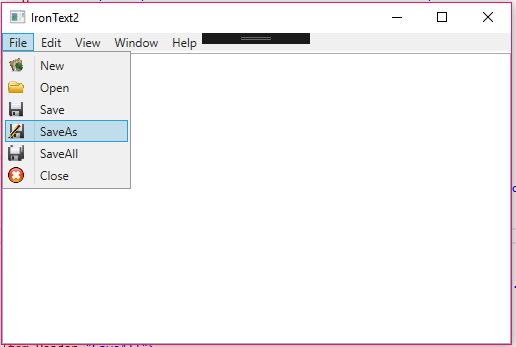
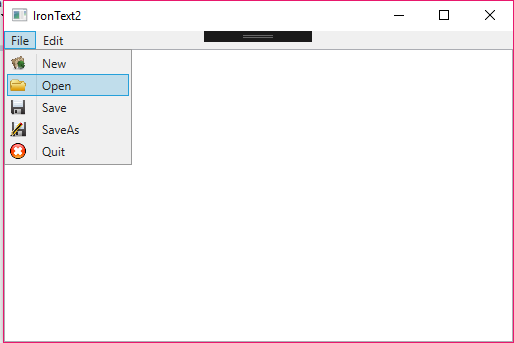
Adding more file operations and events

Changed region(s): [[0.0, 0.0, 1.0, 1.0]]

diff --git a/IronText2/Views/MenuView.xaml b/IronText2/Views/MenuView.xaml
@@ -16,7 +16,7 @@
             </MenuItem.Icon>
             </MenuItem>
 
-            <MenuItem Header="_Open">
+            <MenuItem Header="_Open" Command="{Binding FileOpenCommand}">
                 <MenuItem.Icon>
                     <Image Source="/icons/Avosoft-Warm-Toolbar-Folder-open.ico" />
                 </MenuItem.Icon>

diff --git a/IronText2/Views/TextContentView.xaml.cs b/IronText2/Views/TextContentView.xaml.cs
@@ -14,6 +14,7 @@ using System.Windows.Media.Imaging;
 using System.Windows.Navigation;
 using System.Windows.Shapes;
 using IronText2.Events;
+using IronText2.Models;
 using Microsoft.Win32;
 using Prism.Events;
 
@@ -25,30 +26,68 @@ namespace IronText2.Views
     public partial class TextContentView : UserControl
     {
         private readonly IEventAggregator _eventAggregator;
+        private readonly TextContentModel _model;
 
-        public TextContentView(IEventAggregator eventAggregator)
+
+        public TextContentView(IEventAggregator eventAggregator, TextContentModel model)
         {
             _eventAggregator = eventAggregator;
+            _model = model;
+
             InitializeComponent();
             _eventAggregator.GetEvent<SelectAllTextEvent>().Subscribe(SelectAllText);
             _eventAggregator.GetEvent<CutTextEvent>().Subscribe(CutText);
             _eventAggregator.GetEvent<CopyTextEvent>().Subscribe(CopyText);
             _eventAggregator.GetEvent<PasteTextEvent>().Subscribe(PasteText);
             _eventAggregator.GetEvent<FileSaveEvent>().Subscribe(SaveText);
-
+            _eventAggregator.GetEvent<FileSaveAsEvent>().Subscribe(SaveTextAs);
+            _eventAggregator.GetEvent<FileOpenEvent>().Subscribe(FileOpen);
+            
         }
+
+        private void FileOpen()
+        {
+            var openFileDialog = new OpenFileDialog
+            {
+                Filter = "Text files (*.txt)|*.txt|All files (*.*)|*.*",
+                InitialDirectory = Environment.GetFolderPath(Environment.SpecialFolder.MyDocuments)
+            };
+            if (openFileDialog.ShowDialog() == true)
+            {
+                Text.Text = File.ReadAllText(openFileDialog.FileName);
+                _model.FileName = openFileDialog.FileName;
+            }
+        }
+
 
         private void SaveText()
         {
-            SaveFileDialog saveFileDialog = new SaveFileDialog();
-            saveFileDialog.Filter = "Text file (*.txt)|*.txt|C# file (*.cs)|*.cs|all Files (*.*)|*.*";
-            saveFileDialog.InitialDirectory = Environment.GetFolderPath(Environment.SpecialFolder.MyDocuments);
-            if (saveFileDialog.ShowDialog() == true)
-                File.WriteAllText(saveFileDialog.FileName, Text.Text);
+            if (!string.IsNullOrEmpty(_model.FileName))
+            {
+                File.WriteAllText(_model.FileName, Text.Text);
+            }
+            else
+            {
+                SaveTextAs();
+            }
+
+           
         }
 
 
-        private void PasteText()
+        private void SaveTextAs()
+        {
+            SaveFileDialog saveFileDialog = new SaveFileDialog
+            {
+                Filter = "Text file (*.txt)|*.txt|C# file (*.cs)|*.cs|all Files (*.*)|*.*",
+                InitialDirectory = Environment.GetFolderPath(Environment.SpecialFolder.MyDocuments)
+            };
+            if (saveFileDialog.ShowDialog() == true)
+                File.WriteAllText(saveFileDialog.FileName, Text.Text);
+            _model.FileName = saveFileDialog.FileName;
+        }
+
+    private void PasteText()
         {
            Text.Paste();
         }

diff --git a/IronText2/ViewModels/MenuViewModel.cs b/IronText2/ViewModels/MenuViewModel.cs
@@ -22,6 +22,7 @@ namespace IronText2.ViewModels
         private bool _isTextSelected=true;
         private bool _isClipboardPopulated=true;
         private bool _isTextPopulated=true;
+        private bool _canOpen;
 
 
         public DelegateCommand FileNewCommand { get; private set; }
@@ -33,6 +34,7 @@ namespace IronText2.ViewModels
         public DelegateCommand EditCutCommand { get; private set; }
         public DelegateCommand EditPasteCommand { get; private set; }
         public DelegateCommand EditSelectAllCommand { get; private set; }
+        public DelegateCommand FileOpenCommand { get; private set; }
 
         public MenuViewModel(MenuModel model, IEventAggregator eventAggregator)
         {
@@ -43,6 +45,7 @@ namespace IronText2.ViewModels
             CloseCommand = new DelegateCommand(CloseExecute, CanCloseExecute).ObservesProperty(() => CanClose);
             FileSaveCommand = new DelegateCommand(SaveExecute, CanSaveExecute).ObservesProperty(() => CanSave);
             FileSaveAsCommand = new DelegateCommand(SaveAsExecute, CanSaveAsExecute).ObservesProperty(() => CanSave);
+            FileOpenCommand = new DelegateCommand(OpenFileExecute, CanOpenFileExecute).ObservesProperty(() => CanOpen);
 
 
             EditCopyCommand =new DelegateCommand(EditCopyExecute, CanEditCopyExecute).ObservesProperty(() => IsTextSelected);
@@ -50,6 +53,30 @@ namespace IronText2.ViewModels
             EditPasteCommand = new DelegateCommand(EditPasteExecute, CanEditPasteExecute).ObservesProperty(() => IsClipboardPopulated);
             EditSelectAllCommand = new DelegateCommand(EditSelectAllTextExecute, CanEditSelectAllTextExecute).ObservesProperty(() => IsTextPopulated);
           
+        }
+
+        private bool CanOpenFileExecute()
+        {
+            return true;
+        }
+
+        private void OpenFileExecute()
+        {
+           _eventAggregator.GetEvent<FileOpenEvent>().Publish();
+        }
+
+        public bool CanOpen
+        {
+            get
+            {
+                bool canOpen = _canOpen;
+                return canOpen;
+            }
+            set
+            {
+                SetProperty(ref _canOpen, value);
+
+            }
         }
 
 
@@ -132,7 +159,7 @@ namespace IronText2.ViewModels
 
         private void SaveAsExecute()
         {
-            _eventAggregator.GetEvent<FileSaveEvent>().Publish();
+            _eventAggregator.GetEvent<FileSaveAsEvent>().Publish();
         }
 
         private bool CanSaveExecute()

diff --git a/IronText2/Models/TextContentModel.cs b/IronText2/Models/TextContentModel.cs
@@ -1,0 +1,9 @@
+using Prism.Mvvm;
+
+namespace IronText2.Models
+{
+    public class TextContentModel:BindableBase
+    {
+        public string FileName { get; set; }
+    }
+}

diff --git a/IronText2/Events/FileSaveAsEvent.cs b/IronText2/Events/FileSaveAsEvent.cs
@@ -1,0 +1,9 @@
+using Prism.Events;
+
+namespace IronText2.Events
+{
+    public class FileSaveAsEvent : PubSubEvent
+    {
+
+    }
+}

diff --git a/IronText2/Events/FileOpenEvent.cs b/IronText2/Events/FileOpenEvent.cs
@@ -1,0 +1,9 @@
+using Prism.Events;
+
+namespace IronText2.Events
+{
+    public class FileOpenEvent : PubSubEvent
+    {
+
+    }
+}
